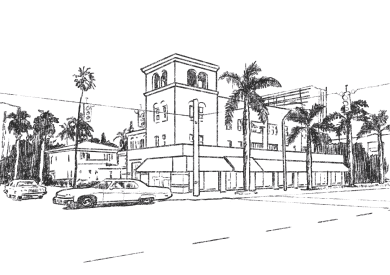
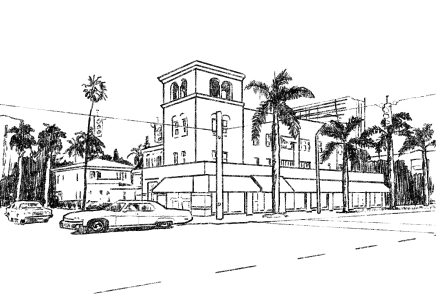
Fixed Miami and Toronto

diff --git a/css/style.less b/css/style.less
@@ -696,7 +696,11 @@ h1, h2, h3, h4, h5 { margin: 0; }
     }
 }
 // miami
-.mia .container:before { background-image: url('../img/bgMiami.png'); }
+.mia .container:before { 
+    background-image: url('../img/bgMiami.png'); 
+    background-size: auto;
+    background-position-y: 90px;
+}
 @media (-webkit-min-device-pixel-ratio: 2), (min-resolution: 192dpi) {
     .mia .container:before {
         background-image: url('../img/bgMiami@2x.png');
@@ -714,7 +718,10 @@ h1, h2, h3, h4, h5 { margin: 0; }
     }
 }
 // toronto
-.tor .container:before { background-image: url('../img/bgToronto.png'); }
+.tor .container:before { 
+    background-image: url('../img/bgToronto.png'); 
+    background-size: auto;
+}
 @media (-webkit-min-device-pixel-ratio: 2), (min-resolution: 192dpi) {
     .phi .container:before {
         background-image: url('../img/bgToronto@2x.png');

diff --git a/css/style.css b/css/style.css
@@ -743,6 +743,8 @@ h5 {
 }
 .mia .container:before {
   background-image: url('../img/bgMiami.png');
+  background-size: auto;
+  background-position-y: 90px;
 }
 @media (-webkit-min-device-pixel-ratio: 2), (min-resolution: 192dpi) {
   .mia .container:before {
@@ -761,6 +763,7 @@ h5 {
 }
 .tor .container:before {
   background-image: url('../img/bgToronto.png');
+  background-size: auto;
 }
 @media (-webkit-min-device-pixel-ratio: 2), (min-resolution: 192dpi) {
   .phi .container:before {
